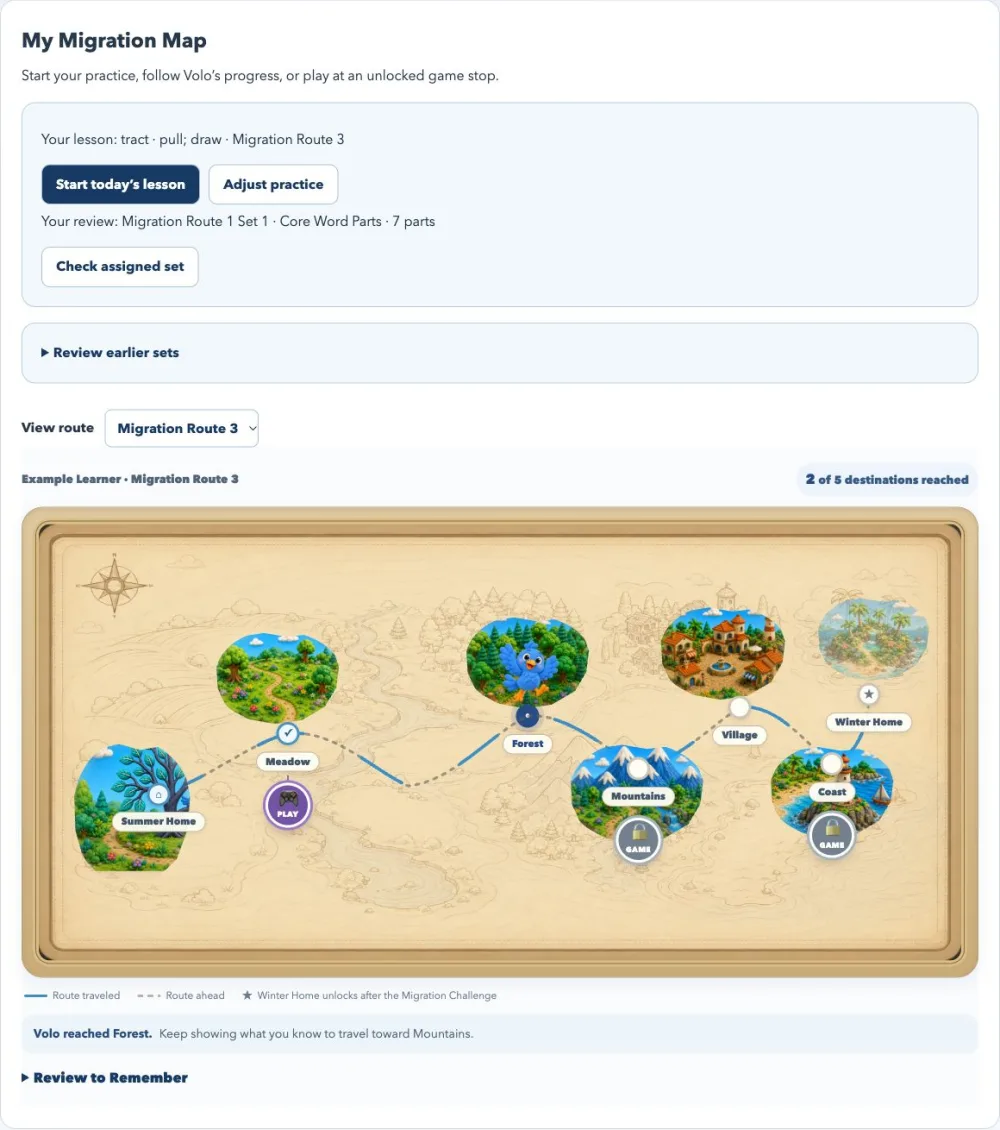
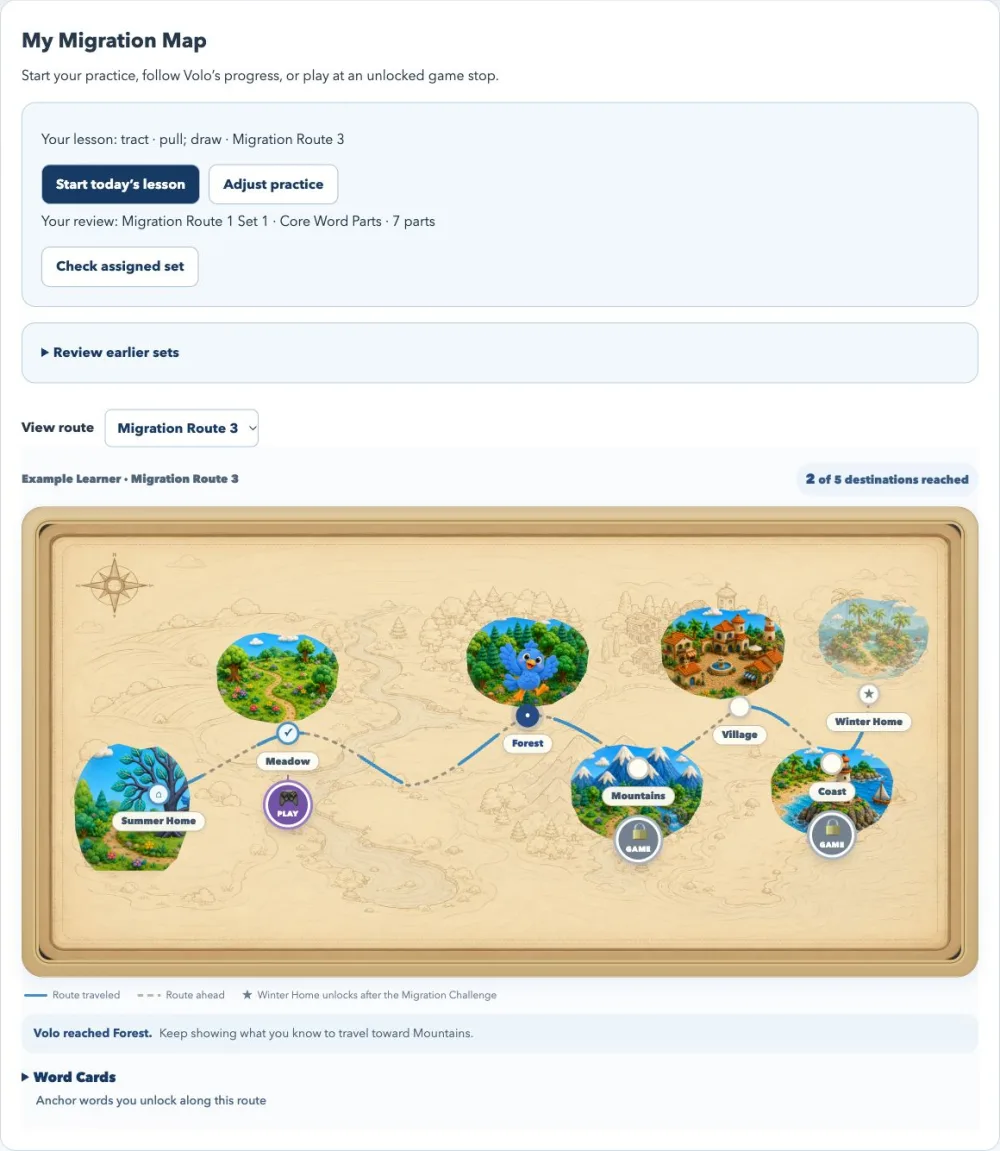
Distinguish learning formats and anchor word cards

diff --git a/quick-start.html b/quick-start.html
@@ -164,23 +164,31 @@
     </section>
 
     <section class="practice-entry" aria-labelledby="guideTeachingTitle">
-      <h2 id="guideTeachingTitle">Choose how to teach today</h2>
+      <h2 id="guideTeachingTitle">Ways to teach and practice</h2>
+      <p>Choose a word part from the shared scope and sequence, then decide how the learner will work on it.</p>
       <ul class="guide-card-grid" role="list">
         <li>
-          <strong>Computer-based learning and practice</strong>
-          <p>To practice together, open <strong>Work with a learner</strong>. For independent practice, open <strong>Set up independent learning</strong>, choose a learner, Route, and lesson, and save. The learner opens it with <strong>Start today’s lesson</strong>. <a href="index.html#educatorEntryTitle">Educator workspace</a>.</p>
+          <strong>Independent online learning</strong>
+          <p>Open <strong>Set up independent learning</strong> and save a lesson or set review. The learner opens it from <strong>My Migration Map</strong> in Student Mode. <a href="index.html#educatorEntryTitle">Educator workspace</a>.</p>
         </li>
         <li>
-          <strong>Teacher-led 1:1 sessions</strong>
-          <p>In <strong>Learners &amp; progress</strong>, select a learner and open the <strong>Next Session Guide</strong> for a suggested focus based on saved practice. Use the prompts and materials on screen or in print. <a href="program-progress.html#instructionalGuidanceWrap">Next Session Guide</a>.</p>
+          <strong>Teacher-guided online sessions</strong>
+          <p>Open the <strong>Next Session Guide</strong> for a suggested focus from saved practice, or choose the word part and activity you want to teach. Use the prompts and on-screen materials together. <a href="program-progress.html#instructionalGuidanceWrap">Next Session Guide</a>.</p>
         </li>
         <li>
-          <strong>Printables and hands-on lessons</strong>
-          <p>Use teaching packs, word-part cards, and practice pages to teach a selected word part offline with one learner or a small group. <a href="printables.html#routeTeachingPacks">Printable teaching packs</a>.</p>
+          <strong>Printable and hands-on materials</strong>
+          <p>Use teaching packs, word-part cards, and practice pages offline with one learner or a small group. <a href="printables.html#routeTeachingPacks">Printable teaching packs</a>.</p>
+        </li>
+        <li>
+          <strong>Extension ideas</strong>
+          <p>Carry the same word part into classroom reading, writing, or subject-area vocabulary. <a href="extend-learning.html#classroom-and-intervention">See examples across Tiers 1–3</a>.</p>
+        </li>
+        <li>
+          <strong>Word Cards</strong>
+          <p>Revisit unlocked anchor words to help remember what was taught. The cards show how word parts work together in whole words. <a href="#guideMigrationMap">See how word cards unlock</a>.</p>
         </li>
       </ul>
       <p><strong>Combine formats.</strong> Introduce a word part together, on screen or offline. Then save practice on that same part for the learner to try independently.</p>
-      <p>Use the same word part in whole-class instruction, small-group practice, or individualized intervention. <a href="extend-learning.html#classroom-and-intervention">See an example across Tiers 1–3</a>.</p>
       <p><strong>In a lesson.</strong> When a word part is new, model it in a familiar word, sort and explain related words when the comparison fits, then try the part in a new word. Route 3 adds a sentence check in <strong>Figure It Out</strong> before the learner keeps or revises their answer.</p>
     </section>
 
@@ -234,12 +242,12 @@
       <details class="guide-dropdown" id="guideMigrationMap">
         <summary>What the Migration Map tracks</summary>
         <p><strong>My Migration Map</strong> is the starting point in Student Mode. Learners can start their practice, view any route, and play at unlocked game stops. Changing the map view keeps the learner’s current practice choices.</p>
-        <p><strong>Review to Remember.</strong> Open an unlocked whole-word card below the map. Each card is a PDF reference that shows how the parts help explain the whole word. Students unlock cards by earning the needed set tokens and reaching the matching stops.</p>
+        <p><strong>Word Cards.</strong> Revisit an unlocked anchor word below the map to help remember what was taught. Each PDF card shows how the parts help explain the whole word. Students unlock cards by earning the needed set tokens and reaching the matching stops.</p>
         <p><strong>Review earlier sets.</strong> On Route 2, students can choose a Route 1 set. On Route 3, they can choose a set from Route 1 or 2. <strong>Check this set</strong> asks one question per part in a familiar example. Students can open Learn for any part they miss or go to today’s lesson when ready. The check itself gives feedback without adding a progress record.</p>
         <p><strong>Assign a set review.</strong> In <strong>Set up independent learning</strong>, choose the learner’s current Route and a <strong>Set review</strong>. Save it on its own or alongside a lesson. It appears as <strong>Check assigned set</strong> in Student Mode. When no set review is assigned, Route 2 and 3 Learn lessons may offer a brief warm-up on earlier parts the learner hasn’t yet shown they know in saved practice.</p>
         <figure class="guide-student-map-example">
-          <a href="images/migration/student-map-guide-example.webp?v=20261109-assigned-review">
-            <img src="images/migration/student-map-guide-example.webp?v=20261109-assigned-review" width="1000" height="1130" loading="lazy"
+          <a href="images/migration/student-map-guide-example.webp?v=20261109-anchor-words">
+            <img src="images/migration/student-map-guide-example.webp?v=20261109-anchor-words" width="1000" height="1151" loading="lazy"
               alt="Example student map with an assigned lesson and set review, two of five destinations reached, and a Play button below Meadow. Open the full-size example.">
           </a>
           <figcaption>Example student view. The learner has an assigned lesson and a set review. Volo has reached Forest on Route 3, and Meadow’s game stop is open.</figcaption>

diff --git a/index.html b/index.html
@@ -1643,68 +1643,50 @@
         <section class="about-clean-section about-use-section">
 
           <h3>
-            How instruction works
+            Ways to teach and practice
           </h3>
+          <p>All five options draw on the same word parts and Migration Routes.</p>
 
           <div class="about-use-grid">
 
             <div class="about-use-card">
-
-              <div class="about-use-icon" aria-hidden="true">
-                💻
-              </div>
-
+              <div class="about-use-icon" aria-hidden="true">💻</div>
               <div>
-                <strong>
-                  Interactive online learning &amp; practice
-                </strong>
-
-                <p>
-                  Work alongside a learner on screen or save a lesson
-                  for independent practice in Student Mode.
-                </p>
+                <strong>Independent online learning</strong>
+                <p>Students explore word parts in Learn and practice in Student Mode. Educators can save a lesson or set review.</p>
               </div>
-
             </div>
 
-
             <div class="about-use-card">
-
-              <div class="about-use-icon" aria-hidden="true">
-                👩🏫
-              </div>
-
+              <div class="about-use-icon" aria-hidden="true">👩🏫</div>
               <div>
-                <strong>
-                  Live 1:1 teacher-led sessions
-                </strong>
-
-                <p>
-                  Use the Session Guide and its prompts to teach a
-                  suggested skill. Open the materials on screen or print them.
-                </p>
+                <strong>Teacher-guided online sessions</strong>
+                <p>Use the Session Guide and on-screen materials to teach a specific word part, give a cue, and try a fresh example together.</p>
               </div>
-
             </div>
 
+            <div class="about-use-card">
+              <div class="about-use-icon" aria-hidden="true">🧩</div>
+              <div>
+                <strong>Printable and hands-on materials</strong>
+                <p>Use teaching packs, word-part cards, and practice pages with one learner or a small group.</p>
+              </div>
+            </div>
 
             <div class="about-use-card">
-
-              <div class="about-use-icon" aria-hidden="true">
-                🧩
-              </div>
-
+              <div class="about-use-icon" aria-hidden="true">🌱</div>
               <div>
-                <strong>
-                  Printables &amp; hands-on activities
-                </strong>
-
-                <p>
-                  Use teaching packs, word-part cards, and practice pages
-                  with one learner or a small group.
-                </p>
+                <strong>Extension ideas</strong>
+                <p>Use the same word parts in classroom reading, writing, and subject-area vocabulary.</p>
               </div>
+            </div>
 
+            <div class="about-use-card">
+              <div class="about-use-icon" aria-hidden="true">⭐</div>
+              <div>
+                <strong>Word Cards</strong>
+                <p>Revisit unlocked anchor words to help remember what was taught and see how the parts explain the whole word.</p>
+              </div>
             </div>
 
           </div>
@@ -1912,8 +1894,8 @@
             of word parts. Each token moves Volo one stop closer to Winter Home.</p>
           <p>Students can check earlier sets on Routes 2 and 3, or open a set review their educator assigned.
             A check points students to Learn for parts they miss. Map progress reflects saved practice across activities.</p>
-          <p>In <strong>Review to Remember</strong>, students can open unlocked word cards to see how word parts
-            help explain the whole word.</p>
+          <p>In <strong>Word Cards</strong>, students can revisit unlocked anchor words to help remember
+            how the parts explain the whole word.</p>
           <p><a href="quick-start.html#guideMigrationMap">How practice, tokens, and game stops fit together</a></p>
         </section>
 
@@ -1986,7 +1968,7 @@
   <script src="reward-maze.js?v=20261108-maze-retry"></script>
   <script src="reward-memory.js?v=20261108-memory"></script>
   <script src="reward-games.js?v=20261109-map-home"></script>
-  <script src="migration-map.js?v=20261109-word-cards"></script>
+  <script src="migration-map.js?v=20261109-anchor-words"></script>
   <script src="volo-token-celebration.js?v=20261108-route-names"></script>
   <script src="instructional-audio.js?v=20260830-segments1"></script>
   <script src="learn-content.js?v=20261108-evidence1"></script>

diff --git a/curriculum-map.html b/curriculum-map.html
@@ -410,6 +410,7 @@
     <section class="extend-section" aria-labelledby="scope-and-sequence">
       <h2 id="scope-and-sequence">Scope and sequence with words in context</h2>
       <p class="extend-section-intro">Open a route, then choose a meaning group to see the word parts it teaches. Each part has a meaning or job and an example sentence. The headings follow the order of the meaning groups in Learn when all word-part types are considered. Choose the group that fits the learner’s next step.</p>
+      <p class="extend-section-intro">These Routes show where word parts are introduced. Independent online practice, teacher-guided sessions, and printable materials draw from the same scope. Choose the word part first, then choose how to teach or practice it. <a href="quick-start.html#guideTeachingTitle">Ways to teach and practice</a>.</p>
       <p class="extend-section-intro">Start with a clear example, sort and explain related words, then apply the part to a new word. Route 3 adds a sentence check in <strong>Figure It Out</strong>. Example availability in activities varies with the selected route and Word Challenge. <a href="quick-start.html#learnStepsGuide">Teaching routine and research</a> · <a href="#instructional-scope">Full digital-practice word lists</a> · <a href="printables.html#routeTeachingPacks">Printable route teaching packs</a>.</p>
       <div class="scope-accordion">
         <details class="scope-band" data-scope-route="1">

diff --git a/migration-map.js b/migration-map.js
@@ -1401,10 +1401,10 @@
         review.className = "migration-home-review";
         review.open = reviewOpen;
         const label = document.createElement("summary");
-        label.textContent = "Review to Remember";
+        label.textContent = "Word Cards";
         const hint = document.createElement("span");
         hint.className = "migration-home-review-hint";
-        hint.textContent = "Whole-word cards you unlock along this route";
+        hint.textContent = "Anchor words you unlock along this route";
         label.append(hint);
         review.append(label, waypointWords);
         content.append(review);
